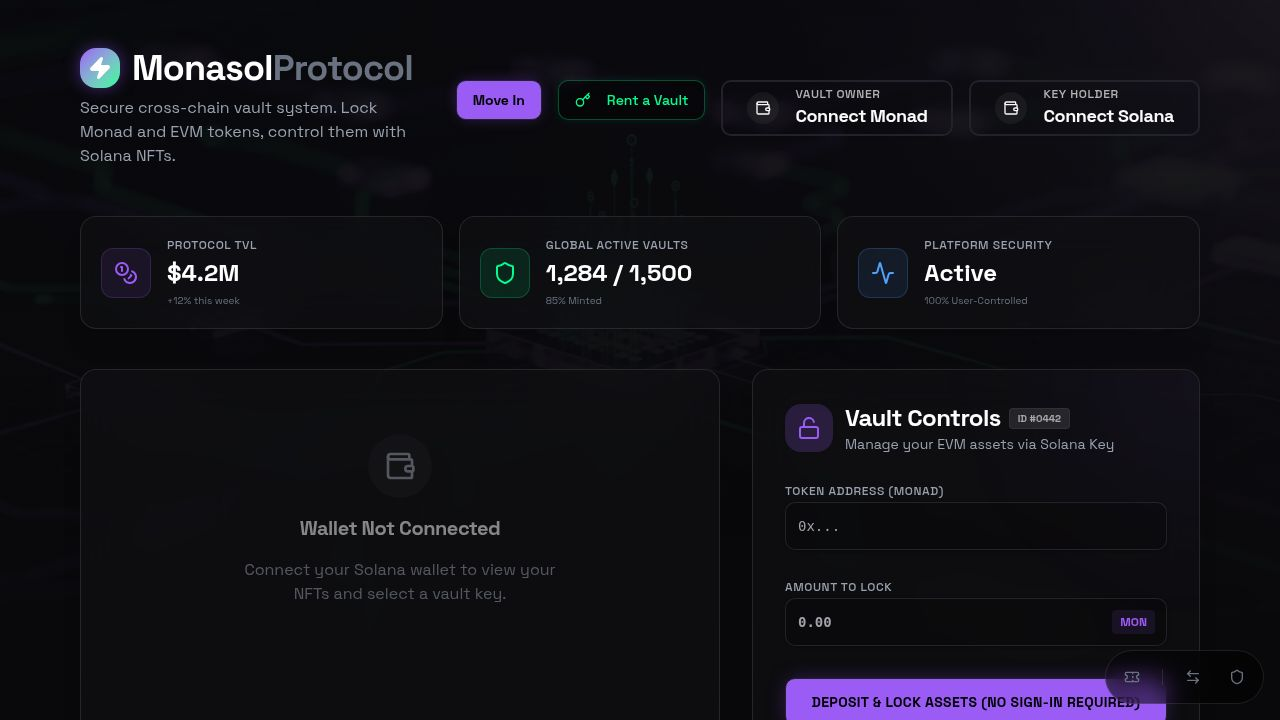
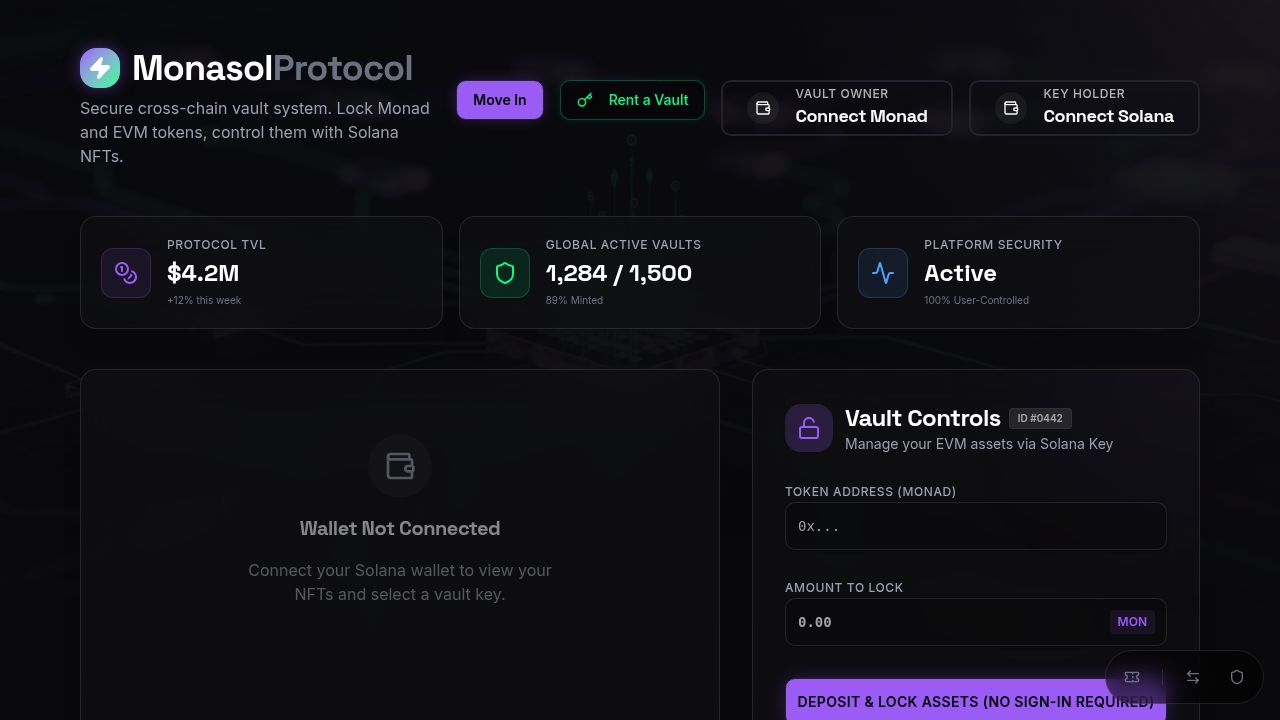
feat: Fix swap token lifecycle, DrizzleStorage, and NftGrid prop-based data
## Task #2 (Build Node.js Backend) - Final round

### Fix 1: Stable swap token lifecycle (no drift, no undefined variable)
- Token is generated ONCE in useState when user picks their NFT
- Removed `generatedToken` computed variable entirely — no undefined references remain
- All copy/create/confirm paths use the same `swapToken` state
- On link open (counterparty flow): URL token is stored in `swapToken` state via useEffect so confirm works correctly
- After POST /api/swaps returns, server-provided token updates state as source of truth
- NFT clear button and full reset both clear `swapToken` and `swapError`

### Fix 2: DrizzleStorage backed by PostgreSQL
- Replaced MemStorage with DrizzleStorage using Drizzle ORM + @user/db
- Lazy first-run seeding: protocol_stats, 128 lockers across 3 tiers, 5 NFT keys, 1 event + 4 ticket tiers
- Schema pushed to live Postgres via drizzle-kit push

### Fix 3: NftGrid accepts NFT list as external prop
- Removed hardcoded INITIAL_NFTS from component internals
- Optional `nfts` prop (array) drives primary display; falls back to FALLBACK_NFTS only if no prop
- home.tsx maps API-fetched NFTs and passes them in
- Locally minted NFTs prepended to server list

### Fix 4: Swap confirmation error handling
- confirmMutation.onError surfaces error message inline (red AlertTriangle banner)
- No silent advance to "complete" on failure; step returns to "review"
- Confirm button disabled while loading to prevent double-submission

diff --git a/artifacts/monasol-protocol/src/pages/swap.tsx b/artifacts/monasol-protocol/src/pages/swap.tsx
@@ -122,6 +122,8 @@ export default function SwapPage() {
     const decoded = decodeSwapToken(token);
     if (!decoded) return;
     if (decoded.expired) { setLinkExpired(true); return; }
+    // Store the raw URL token so counterparty confirm uses the same token
+    setSwapToken(token);
     setAddr(decoded.wallet);
     setCounterNft(decoded.nftMint);
   }, []);
@@ -325,7 +327,7 @@ export default function SwapPage() {
                   </div>
                   <div className="flex gap-2">
                     <div className="flex-1 bg-black/50 border border-white/10 rounded-lg px-3 py-2 font-mono text-xs text-gray-500 truncate">
-                      {myNft ? `${window.location.origin}/swap?token=${generatedToken.slice(0, 16)}...` : "Select your NFT first"}
+                      {swapToken ? `${window.location.origin}/swap?token=${swapToken.slice(0, 16)}...` : "Select your NFT first"}
                     </div>
                     <Button onClick={handleCopyLink} disabled={!myNft} variant="outline" className="border-white/10 text-gray-400 hover:text-white shrink-0">
                       {linkCopied ? <CheckCircle className="h-4 w-4 text-green-400" /> : <Copy className="h-4 w-4" />}